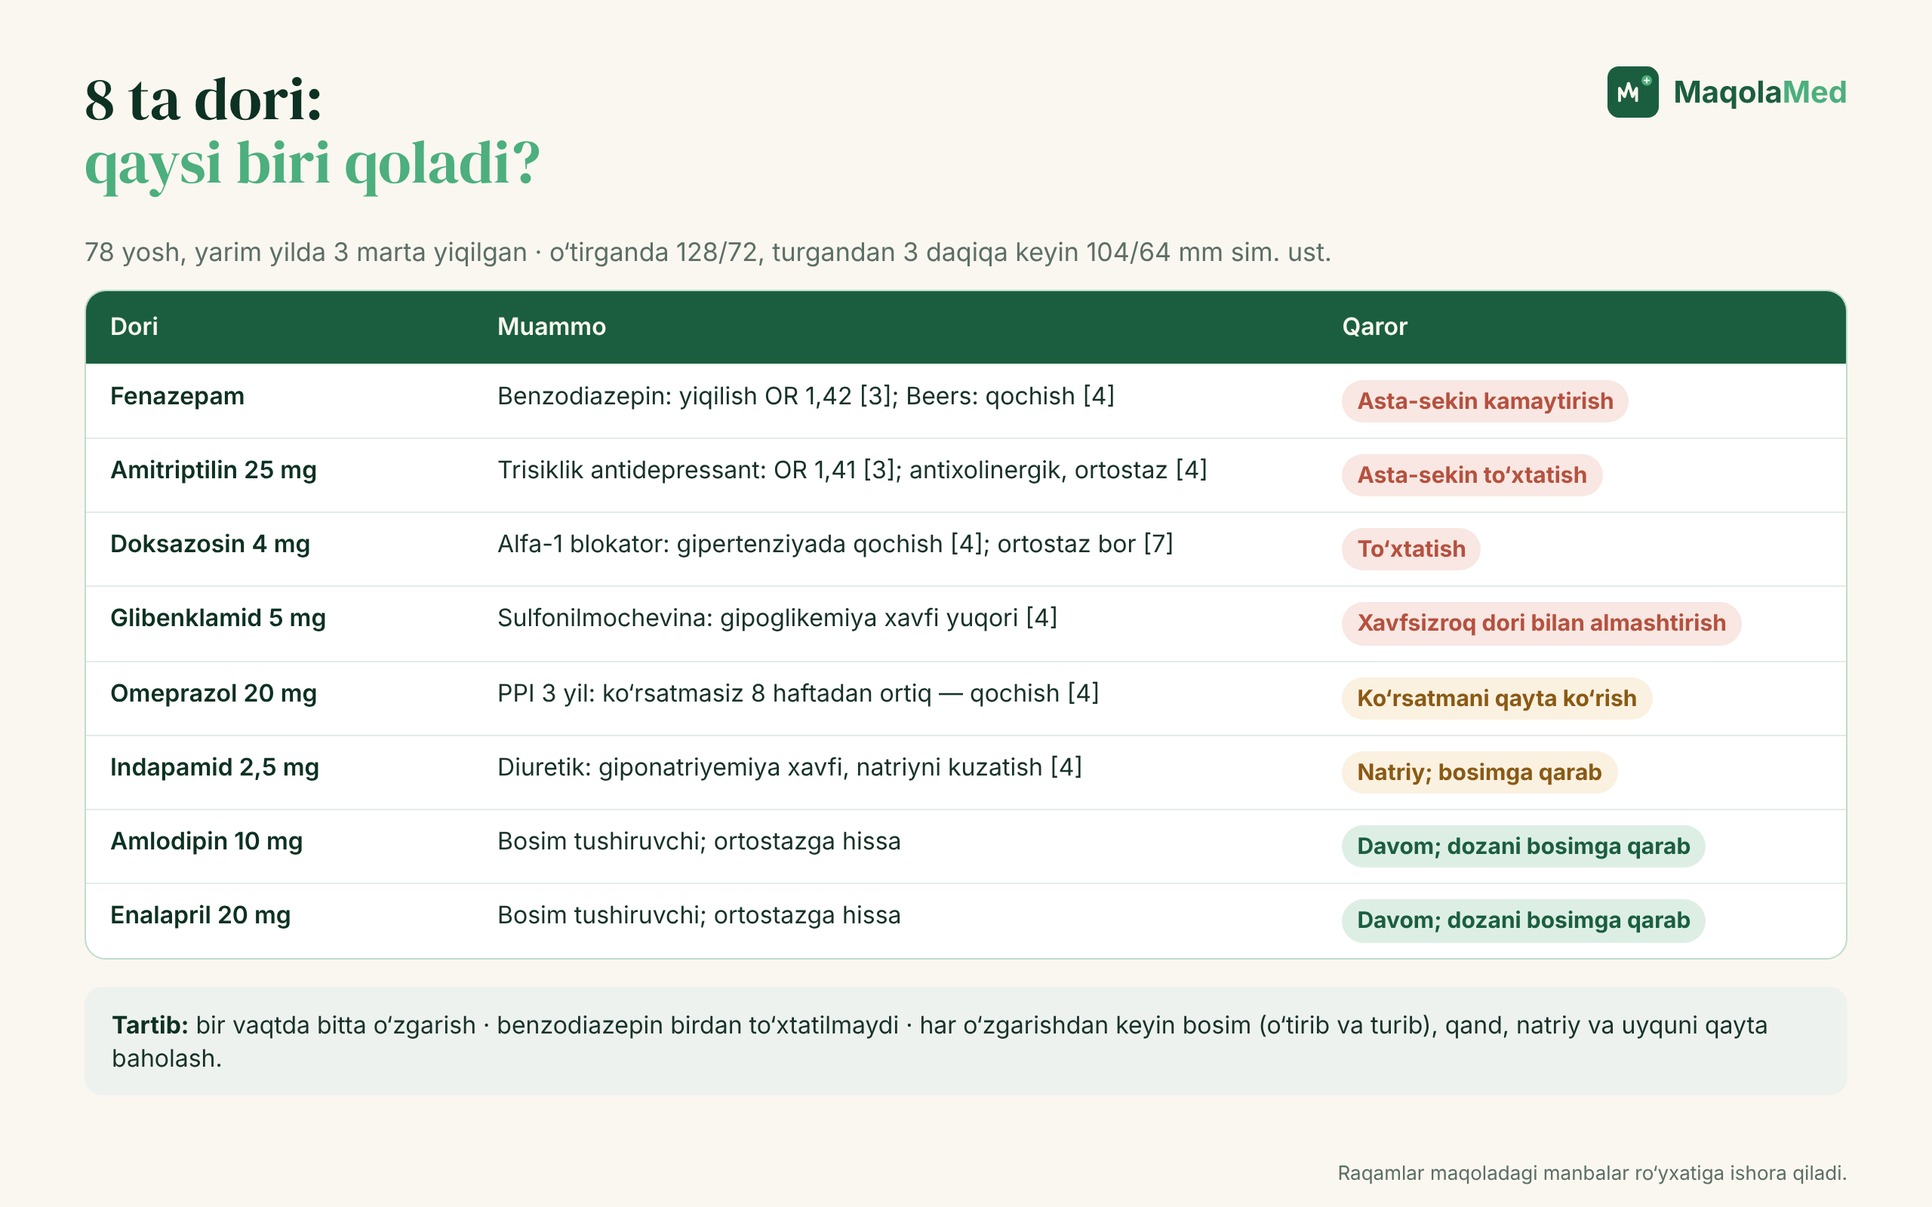
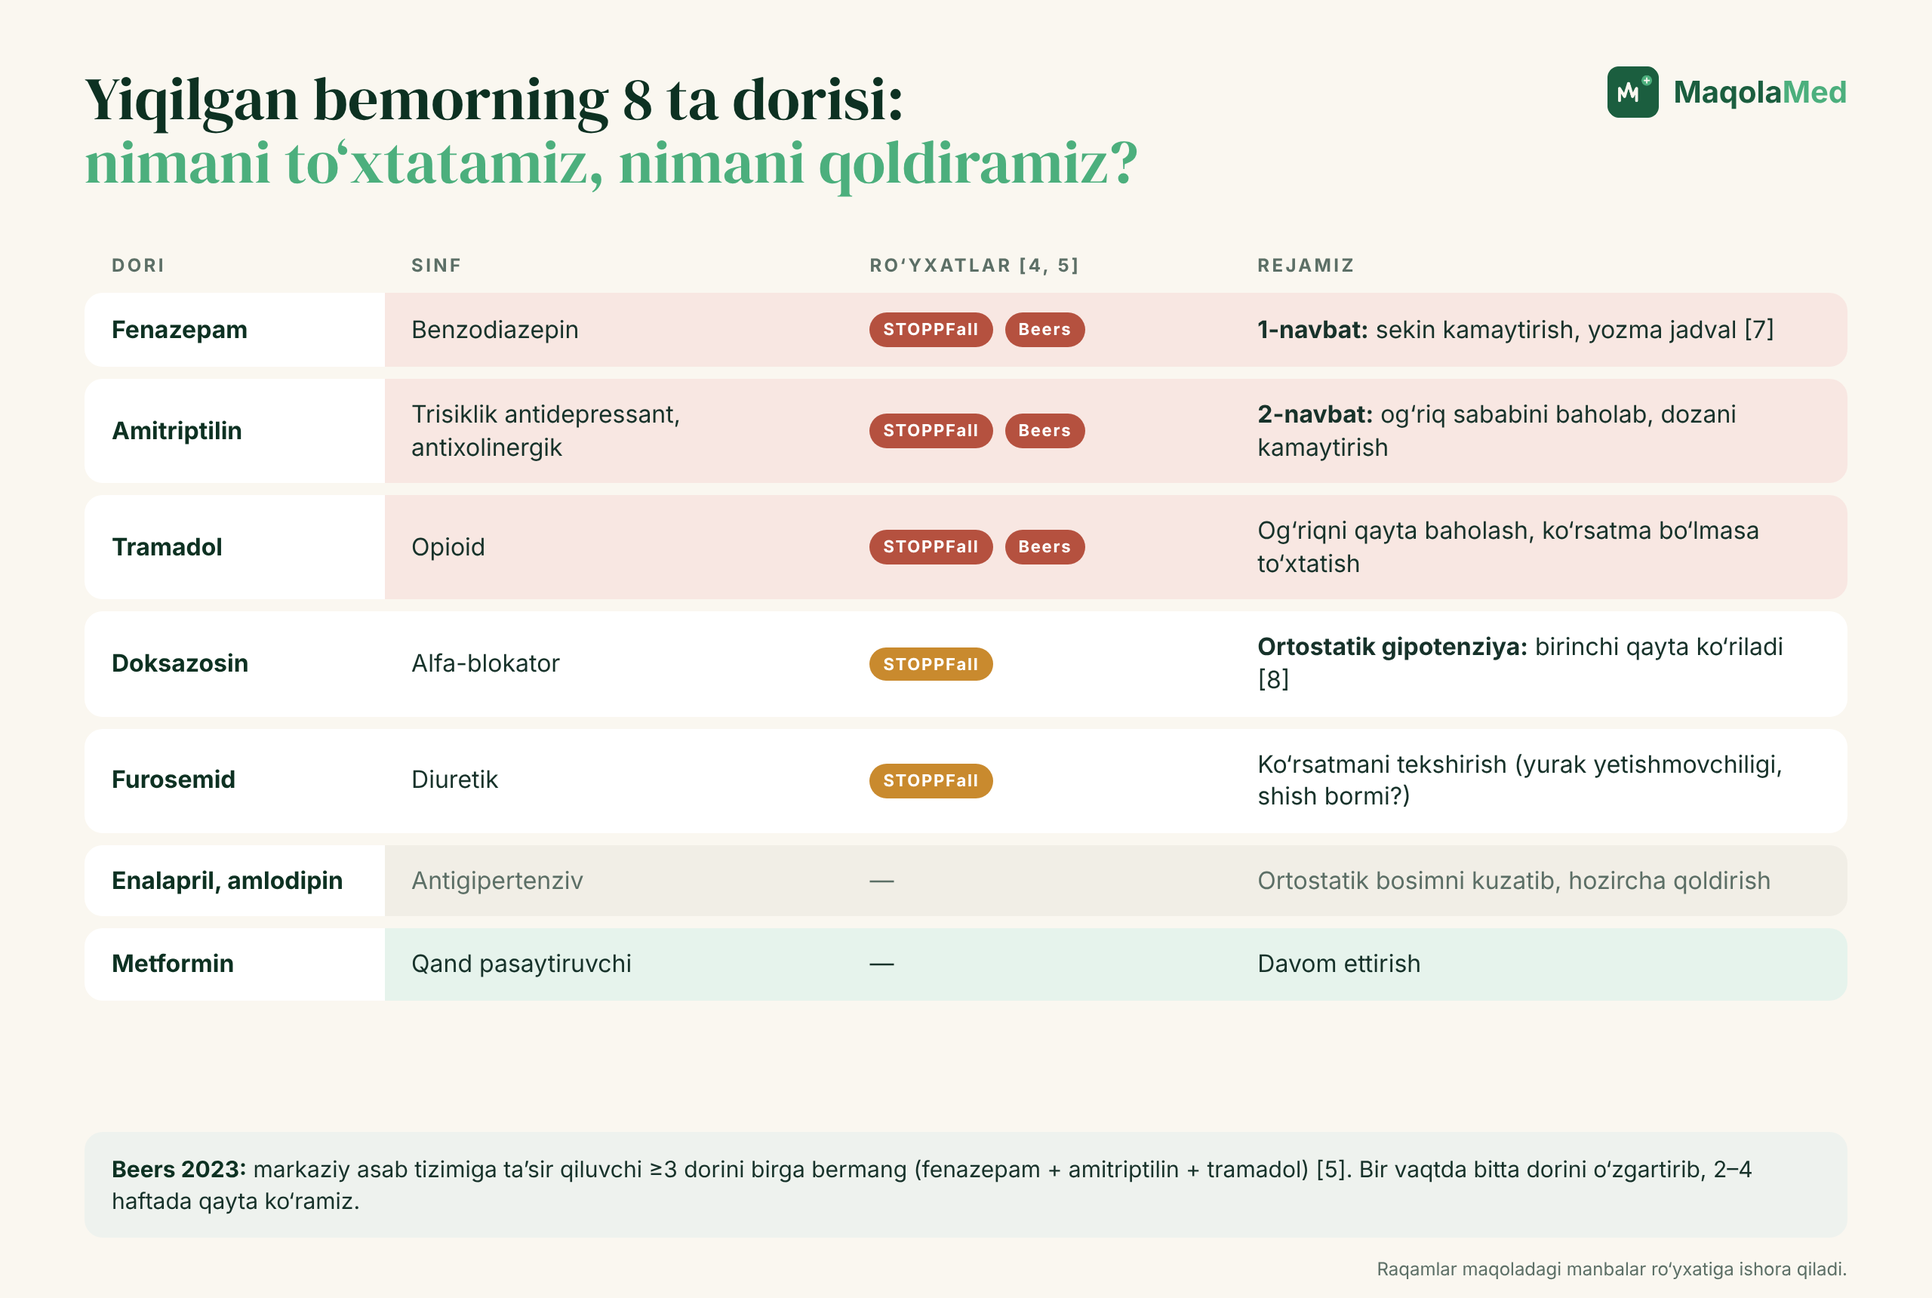
22-dekabr maqolasi qayta yozildi (v2, humanizer): yiqilgan keksa bemor va dorilar — muqovalar, 1 rasm

diff --git a/_manba/2026-12-22/muqova-instagram-4x5.html b/_manba/2026-12-22/muqova-instagram-4x5.html
@@ -1,0 +1,87 @@
+<!doctype html>
+<html lang="uz">
+<head><base href="file:///home/claude/maqolamed-rasmlar/_shablon/">
+<meta charset="utf-8">
+<style>
+@font-face{font-family:"DM Serif Display";src:url("fonts/dm-serif-display-latin-400-normal.woff2") format("woff2");}
+@font-face{font-family:"DM Serif Display";src:url("fonts/dm-serif-display-latin-ext-400-normal.woff2") format("woff2");unicode-range:U+0100-024F,U+1E00-1EFF;}
+:root{
+  --emerald:#1B5E3F; --deep:#0D3122; --cream:#FAF7F0; --mint:#7FC9A0; --green:#4CAF7D;
+}
+*{margin:0;padding:0;box-sizing:border-box}
+html,body{width:1280px;height:720px;overflow:hidden;background:var(--deep)}
+.cover{position:relative;width:1280px;height:720px;overflow:hidden;font-family:"Inter",sans-serif;color:var(--cream);
+  background:
+    radial-gradient(900px 600px at 78% 40%, rgba(76,175,125,.22), transparent 60%),
+    radial-gradient(700px 500px at 0% 100%, rgba(13,49,34,.9), transparent 70%),
+    linear-gradient(135deg,#123F2C 0%, #1B5E3F 55%, #164D34 100%);}
+.grid{position:absolute;inset:0;background-image:
+    linear-gradient(rgba(250,247,240,.035) 1px,transparent 1px),
+    linear-gradient(90deg,rgba(250,247,240,.035) 1px,transparent 1px);
+  background-size:40px 40px;}
+.ekg{position:absolute;left:0;top:300px;width:1280px;height:200px;opacity:.16}
+.left{position:absolute;left:64px;top:52px;width:690px}
+.brand{display:flex;align-items:center;gap:28px}
+.brand img{height:62px;display:block}
+.tag{display:flex;align-items:center;gap:14px;font-size:13px;letter-spacing:.32em;color:rgba(250,247,240,.72);font-weight:500}
+.tag i{width:4px;height:4px;border-radius:50%;background:var(--mint);display:inline-block}
+.tag .line{width:90px;height:1px;background:rgba(250,247,240,.35)}
+.kicker{margin-top:54px;display:inline-flex;align-items:center;gap:10px;font-size:15px;font-weight:600;letter-spacing:.14em;text-transform:uppercase;color:var(--mint)}
+.kicker span{display:inline-block;width:28px;height:2px;background:var(--mint)}
+h1{margin-top:16px;font-family:"DM Serif Display",serif;font-weight:400;font-size:78px;line-height:.98;letter-spacing:-.01em;color:var(--cream)}
+h1 em{font-style:normal;color:var(--mint)}
+.sub{margin-top:22px;font-size:21px;color:rgba(250,247,240,.82);font-weight:400}
+.points{position:absolute;left:64px;bottom:50px;display:flex;gap:0}
+.pt{width:172px;padding-right:18px;display:flex;flex-direction:column;align-items:flex-start;gap:12px}
+.pt + .pt{padding-left:22px;border-left:1px solid rgba(250,247,240,.18)}
+.ic{width:52px;height:52px;border-radius:50%;border:1.6px solid rgba(250,247,240,.75);display:grid;place-items:center}
+.ic svg{width:26px;height:26px;stroke:var(--cream);fill:none;stroke-width:1.7;stroke-linecap:round;stroke-linejoin:round}
+.pt p{font-size:15px;line-height:1.3;color:rgba(250,247,240,.92);font-weight:500}
+.card{position:absolute;right:56px;top:96px;width:400px;border-radius:22px;padding:28px 30px 26px;
+  background:linear-gradient(160deg,rgba(13,49,34,.82),rgba(13,49,34,.62));
+  border:1px solid rgba(127,201,160,.35);box-shadow:0 30px 60px rgba(0,0,0,.35)}
+.card .ch{display:flex;justify-content:space-between;align-items:center}
+.card .lbl{font-size:12px;letter-spacing:.24em;font-weight:600;color:var(--mint)}
+.card .pill{font-size:12px;font-weight:600;padding:5px 10px;border-radius:999px;background:rgba(127,201,160,.16);color:var(--mint)}
+.card h3{margin-top:14px;font-size:22px;font-weight:600}
+.card h3 small{display:block;margin-top:4px;font-size:14px;font-weight:400;color:rgba(250,247,240,.65)}
+.rows{margin-top:18px;border-top:1px solid rgba(250,247,240,.14)}
+.row{display:flex;justify-content:space-between;padding:9px 0;border-bottom:1px solid rgba(250,247,240,.10);font-size:16px}
+.row span:first-child{color:rgba(250,247,240,.68)}
+.row span:last-child{font-weight:600;font-variant-numeric:tabular-nums}
+.row .ok{color:var(--mint)}
+.quote{margin-top:18px;font-family:"DM Serif Display",serif;font-size:21px;line-height:1.25;color:var(--cream)}
+.ask{margin-top:16px;display:flex;align-items:center;justify-content:space-between;padding:13px 16px;border-radius:12px;background:var(--green);color:#0D3122;font-weight:700;font-size:17px}
+.ask svg{width:22px;height:22px;stroke:#0D3122;fill:none;stroke-width:2.2;stroke-linecap:round;stroke-linejoin:round}
+
+html,body{width:1080px;height:1350px}
+.cover{width:1080px;height:1350px}
+.ekg{top:525px;width:1080px}
+.left{left:72px;top:64px;width:940px}
+.brand img{height:72px}
+h1{font-size:96px;margin-top:18px}
+.kicker{margin-top:56px;font-size:17px}
+.sub{font-size:24px}
+.card{left:72px;right:72px;top:auto;bottom:250px;width:auto;padding:30px 34px}
+.rows{display:grid;grid-template-columns:1fr 1fr;column-gap:40px}
+.quote{font-size:24px}
+.points{left:72px;right:72px;bottom:60px}
+.pt{width:auto;flex:1}
+.pt p{font-size:17px}
+
+
+
+h1{font-size:90px}
+</style>
+</head>
+<body><div class="cover"><div class="grid"></div>
+<svg class="ekg" viewBox="0 0 1280 200" preserveAspectRatio="none"><polyline fill="none" stroke="#7FC9A0" stroke-width="3" stroke-linejoin="round" stroke-linecap="round" points="0,120 640,120 670,120 690,98 710,120 750,120 770,40 795,175 820,120 880,120 905,102 930,120 1280,120"/></svg>
+<div class="left"><div class="brand"><img src="logo_dark_bg.png" alt="MaqolaMed"></div>
+<div class="tag" style="margin-top:22px"><span>ILM</span><i></i><span>AMALIYOT</span><i></i><span>ODAM UCHUN</span><span class="line"></span></div>
+<div class="kicker"><span></span>Klinik holat · Geriatriya</div>
+<h1>Yiqilgan bemor<br>va 8 ta dori:<br><em>qaysini to‘xtatamiz?</em></h1>
+<div class="sub">Keksa bemorga yangi dori emas, dori ro‘yxatini qayta ko‘rish kerak.</div></div>
+<div class="points"><div class="pt"><div class="ic"><svg viewBox="0 0 24 24"><path d="M12 3l9.5 17h-19z"/><path d="M12 10v4"/><path d="M12 17v.5"/></svg></div><p>Bu yiqilish tasodifmi?</p></div><div class="pt"><div class="ic"><svg viewBox="0 0 24 24"><rect x="3" y="8.5" width="18" height="7" rx="3.5" transform="rotate(-40 12 12)"/><path d="M9.3 9.3l5.4 5.4"/></svg></div><p>Qaysi dorilar yiqitadi?</p></div><div class="pt"><div class="ic"><svg viewBox="0 0 24 24"><circle cx="12" cy="12" r="9"/><path d="M12 7v5l3 2"/></svg></div><p>Fenazepamni qanday to‘xtatamiz?</p></div><div class="pt"><div class="ic"><svg viewBox="0 0 24 24"><path d="M12 21s-7-4.5-9.5-9A5.5 5.5 0 0 1 12 6a5.5 5.5 0 0 1 9.5 6c-2.5 4.5-9.5 9-9.5 9z"/></svg></div><p>Bosim dorilari nima bo‘ladi?</p></div></div>
+<div class="card"><div class="ch"><span class="lbl">BEMOR KARTOCHKASI</span><span class="pill">2-yiqilish</span></div>
+<h3>Nafaqadagi o‘qituvchi, 81 yosh<small>Tunda yiqilgan · bilak jarohati</small></h3><div class="rows"><div class="row"><span>Dorilar soni</span><span class="">8 ta</span></div><div class="row"><span>Yotgan / turgan bosim</span><span class="">148/84 → 120/76</span></div><div class="row"><span>STOPPFall ro‘yxatida</span><span class="">5 ta dori</span></div><div class="row"><span>Markaziy ta’sirli dorilar</span><span class="">3 ta</span></div></div><div class="quote">«Dadamga yana qaysi dori kerak?»</div><div class="ask">Siz nima qilardingiz?<svg viewBox="0 0 24 24"><path d="M5 12h14"/><path d="M13 6l6 6-6 6"/></svg></div></div>
+</div></body></html>

diff --git a/_manba/2026-12-22/muqova-16x9.html b/_manba/2026-12-22/muqova-16x9.html
@@ -1,0 +1,70 @@
+<!doctype html>
+<html lang="uz">
+<head><base href="file:///home/claude/maqolamed-rasmlar/_shablon/">
+<meta charset="utf-8">
+<style>
+@font-face{font-family:"DM Serif Display";src:url("fonts/dm-serif-display-latin-400-normal.woff2") format("woff2");}
+@font-face{font-family:"DM Serif Display";src:url("fonts/dm-serif-display-latin-ext-400-normal.woff2") format("woff2");unicode-range:U+0100-024F,U+1E00-1EFF;}
+:root{
+  --emerald:#1B5E3F; --deep:#0D3122; --cream:#FAF7F0; --mint:#7FC9A0; --green:#4CAF7D;
+}
+*{margin:0;padding:0;box-sizing:border-box}
+html,body{width:1280px;height:720px;overflow:hidden;background:var(--deep)}
+.cover{position:relative;width:1280px;height:720px;overflow:hidden;font-family:"Inter",sans-serif;color:var(--cream);
+  background:
+    radial-gradient(900px 600px at 78% 40%, rgba(76,175,125,.22), transparent 60%),
+    radial-gradient(700px 500px at 0% 100%, rgba(13,49,34,.9), transparent 70%),
+    linear-gradient(135deg,#123F2C 0%, #1B5E3F 55%, #164D34 100%);}
+.grid{position:absolute;inset:0;background-image:
+    linear-gradient(rgba(250,247,240,.035) 1px,transparent 1px),
+    linear-gradient(90deg,rgba(250,247,240,.035) 1px,transparent 1px);
+  background-size:40px 40px;}
+.ekg{position:absolute;left:0;top:300px;width:1280px;height:200px;opacity:.16}
+.left{position:absolute;left:64px;top:52px;width:690px}
+.brand{display:flex;align-items:center;gap:28px}
+.brand img{height:62px;display:block}
+.tag{display:flex;align-items:center;gap:14px;font-size:13px;letter-spacing:.32em;color:rgba(250,247,240,.72);font-weight:500}
+.tag i{width:4px;height:4px;border-radius:50%;background:var(--mint);display:inline-block}
+.tag .line{width:90px;height:1px;background:rgba(250,247,240,.35)}
+.kicker{margin-top:54px;display:inline-flex;align-items:center;gap:10px;font-size:15px;font-weight:600;letter-spacing:.14em;text-transform:uppercase;color:var(--mint)}
+.kicker span{display:inline-block;width:28px;height:2px;background:var(--mint)}
+h1{margin-top:16px;font-family:"DM Serif Display",serif;font-weight:400;font-size:78px;line-height:.98;letter-spacing:-.01em;color:var(--cream)}
+h1 em{font-style:normal;color:var(--mint)}
+.sub{margin-top:22px;font-size:21px;color:rgba(250,247,240,.82);font-weight:400}
+.points{position:absolute;left:64px;bottom:50px;display:flex;gap:0}
+.pt{width:172px;padding-right:18px;display:flex;flex-direction:column;align-items:flex-start;gap:12px}
+.pt + .pt{padding-left:22px;border-left:1px solid rgba(250,247,240,.18)}
+.ic{width:52px;height:52px;border-radius:50%;border:1.6px solid rgba(250,247,240,.75);display:grid;place-items:center}
+.ic svg{width:26px;height:26px;stroke:var(--cream);fill:none;stroke-width:1.7;stroke-linecap:round;stroke-linejoin:round}
+.pt p{font-size:15px;line-height:1.3;color:rgba(250,247,240,.92);font-weight:500}
+.card{position:absolute;right:56px;top:96px;width:400px;border-radius:22px;padding:28px 30px 26px;
+  background:linear-gradient(160deg,rgba(13,49,34,.82),rgba(13,49,34,.62));
+  border:1px solid rgba(127,201,160,.35);box-shadow:0 30px 60px rgba(0,0,0,.35)}
+.card .ch{display:flex;justify-content:space-between;align-items:center}
+.card .lbl{font-size:12px;letter-spacing:.24em;font-weight:600;color:var(--mint)}
+.card .pill{font-size:12px;font-weight:600;padding:5px 10px;border-radius:999px;background:rgba(127,201,160,.16);color:var(--mint)}
+.card h3{margin-top:14px;font-size:22px;font-weight:600}
+.card h3 small{display:block;margin-top:4px;font-size:14px;font-weight:400;color:rgba(250,247,240,.65)}
+.rows{margin-top:18px;border-top:1px solid rgba(250,247,240,.14)}
+.row{display:flex;justify-content:space-between;padding:9px 0;border-bottom:1px solid rgba(250,247,240,.10);font-size:16px}
+.row span:first-child{color:rgba(250,247,240,.68)}
+.row span:last-child{font-weight:600;font-variant-numeric:tabular-nums}
+.row .ok{color:var(--mint)}
+.quote{margin-top:18px;font-family:"DM Serif Display",serif;font-size:21px;line-height:1.25;color:var(--cream)}
+.ask{margin-top:16px;display:flex;align-items:center;justify-content:space-between;padding:13px 16px;border-radius:12px;background:var(--green);color:#0D3122;font-weight:700;font-size:17px}
+.ask svg{width:22px;height:22px;stroke:#0D3122;fill:none;stroke-width:2.2;stroke-linecap:round;stroke-linejoin:round}
+
+h1{font-size:66px}
+</style>
+</head>
+<body><div class="cover"><div class="grid"></div>
+<svg class="ekg" viewBox="0 0 1280 200" preserveAspectRatio="none"><polyline fill="none" stroke="#7FC9A0" stroke-width="3" stroke-linejoin="round" stroke-linecap="round" points="0,120 640,120 670,120 690,98 710,120 750,120 770,40 795,175 820,120 880,120 905,102 930,120 1280,120"/></svg>
+<div class="left"><div class="brand"><img src="logo_dark_bg.png" alt="MaqolaMed"></div>
+<div class="tag" style="margin-top:22px"><span>ILM</span><i></i><span>AMALIYOT</span><i></i><span>ODAM UCHUN</span><span class="line"></span></div>
+<div class="kicker"><span></span>Klinik holat · Geriatriya</div>
+<h1>Yiqilgan bemor<br>va 8 ta dori:<br><em>qaysini to‘xtatamiz?</em></h1>
+<div class="sub">Keksa bemorga yangi dori emas, dori ro‘yxatini qayta ko‘rish kerak.</div></div>
+<div class="points"><div class="pt"><div class="ic"><svg viewBox="0 0 24 24"><path d="M12 3l9.5 17h-19z"/><path d="M12 10v4"/><path d="M12 17v.5"/></svg></div><p>Bu yiqilish tasodifmi?</p></div><div class="pt"><div class="ic"><svg viewBox="0 0 24 24"><rect x="3" y="8.5" width="18" height="7" rx="3.5" transform="rotate(-40 12 12)"/><path d="M9.3 9.3l5.4 5.4"/></svg></div><p>Qaysi dorilar yiqitadi?</p></div><div class="pt"><div class="ic"><svg viewBox="0 0 24 24"><circle cx="12" cy="12" r="9"/><path d="M12 7v5l3 2"/></svg></div><p>Fenazepamni qanday to‘xtatamiz?</p></div><div class="pt"><div class="ic"><svg viewBox="0 0 24 24"><path d="M12 21s-7-4.5-9.5-9A5.5 5.5 0 0 1 12 6a5.5 5.5 0 0 1 9.5 6c-2.5 4.5-9.5 9-9.5 9z"/></svg></div><p>Bosim dorilari nima bo‘ladi?</p></div></div>
+<div class="card"><div class="ch"><span class="lbl">BEMOR KARTOCHKASI</span><span class="pill">2-yiqilish</span></div>
+<h3>Nafaqadagi o‘qituvchi, 81 yosh<small>Tunda yiqilgan · bilak jarohati</small></h3><div class="rows"><div class="row"><span>Dorilar soni</span><span class="">8 ta</span></div><div class="row"><span>Yotgan / turgan bosim</span><span class="">148/84 → 120/76</span></div><div class="row"><span>STOPPFall ro‘yxatida</span><span class="">5 ta dori</span></div><div class="row"><span>Markaziy ta’sirli dorilar</span><span class="">3 ta</span></div></div><div class="quote">«Dadamga yana qaysi dori kerak?»</div><div class="ask">Siz nima qilardingiz?<svg viewBox="0 0 24 24"><path d="M5 12h14"/><path d="M13 6l6 6-6 6"/></svg></div></div>
+</div></body></html>

diff --git a/_manba/2026-12-22/1-rasm.html b/_manba/2026-12-22/1-rasm.html
@@ -1,0 +1,46 @@
+<!doctype html><html lang="uz"><head><meta charset="utf-8"><base href="file:///home/claude/maqolamed-rasmlar/_shablon/">
+<style>
+@font-face{font-family:"DM Serif Display";src:url("fonts/dm-serif-display-latin-400-normal.woff2") format("woff2");}
+@font-face{font-family:"DM Serif Display";src:url("fonts/dm-serif-display-latin-ext-400-normal.woff2") format("woff2");unicode-range:U+0100-024F,U+1E00-1EFF;}
+:root{--emerald:#1B5E3F;--deep:#0D3122;--cream:#FAF7F0;--mint:#7FC9A0;--green:#4CAF7D;--ink:#17322A;--muted:#5C6F66;--amber:#C98A2E;--amberbg:#FBF1E1;--red:#B5513F;--redbg:#F8E7E2;--tint:#E6F3EC}
+*{margin:0;padding:0;box-sizing:border-box}
+html,body{width:1280px;height:var(--H,900px);background:var(--cream);overflow:hidden}
+.fig{position:relative;width:1280px;height:var(--H,900px);padding:44px 56px;font-family:"Inter",sans-serif;color:var(--ink)}
+.top{display:flex;justify-content:space-between;align-items:flex-start;margin-bottom:28px}
+h1{font-family:"DM Serif Display",serif;font-weight:400;font-size:40px;line-height:1.05;color:var(--deep)}
+h1 em{font-style:normal;color:var(--green)}
+.brand{display:flex;align-items:center;gap:10px;font-weight:700;font-size:20px;color:var(--emerald)}
+.brand img{height:34px}.brand b{color:var(--green);font-weight:700}
+table{width:100%;border-collapse:separate;border-spacing:0 8px;font-size:16px;line-height:1.35}
+th{text-align:left;font-size:12px;letter-spacing:.14em;text-transform:uppercase;color:var(--muted);padding:0 18px 2px;font-weight:700}
+td{background:#fff;padding:13px 18px;vertical-align:middle}
+td:first-child{border-radius:12px 0 0 12px;font-weight:700;color:var(--deep)}
+td:last-child{border-radius:0 12px 12px 0}
+td.new{background:var(--tint)} td.same{background:#F1EEE6;color:var(--muted)}
+td.warn{background:var(--redbg)}
+.badge{display:inline-block;font-size:11px;font-weight:700;letter-spacing:.08em;padding:4px 9px;border-radius:999px;margin-right:8px;vertical-align:1px}
+.b-new{background:var(--emerald);color:var(--cream)} .b-same{background:#E2DED3;color:var(--muted)} .b-red{background:var(--red);color:#fff} .b-amb{background:var(--amber);color:#fff}
+.muted{color:var(--muted)}
+.node{border-radius:14px;padding:14px 18px;font-size:16px;line-height:1.38}
+.node b{display:block;font-size:17px;margin-bottom:3px}
+.n-dark{background:var(--emerald);color:var(--cream)} .n-deep{background:var(--deep);color:var(--cream)}
+.n-white{background:#fff;border:1.5px solid #BFDCCB} .n-amb{background:#fff;border:1.5px solid #EBD3A9} .n-red{background:var(--redbg);border:1.5px solid #E8C3BA}
+.tagc{display:inline-block;font-size:12px;font-weight:700;letter-spacing:.12em;text-transform:uppercase;padding:6px 12px;border-radius:999px}
+.t-g{background:#DDEFE5;color:var(--emerald)} .t-a{background:var(--amberbg);color:#8A5A14} .t-r{background:var(--redbg);color:var(--red)}
+.note{position:absolute;left:56px;right:56px;bottom:40px;padding:14px 18px;border-radius:12px;background:#EEF2EE;font-size:15px;line-height:1.4}
+.note b{color:var(--deep)}
+.src{position:absolute;right:56px;bottom:12px;font-size:12px;color:var(--muted)}
+.arrow{stroke:var(--emerald);stroke-width:2.2;fill:none}
+</style></head><body><style>:root{--H:860px} td{font-size:16px} th{padding-top:4px}</style>
+<div class="fig"><div class="top"><h1>Yiqilgan bemorning 8 ta dorisi:<br><em>nimani to‘xtatamiz, nimani qoldiramiz?</em></h1><div class="brand"><img src="icon.png" alt=""><span>Maqola<b>Med</b></span></div></div>
+<table><tr><th style="width:17%">Dori</th><th style="width:26%">Sinf</th><th style="width:22%">Ro‘yxatlar [4, 5]</th><th>Rejamiz</th></tr>
+<tr><td>Fenazepam</td><td class="warn">Benzodiazepin</td><td class="warn"><span class="badge b-red">STOPPFall</span><span class="badge b-red">Beers</span></td><td class="warn"><b>1-navbat:</b> sekin kamaytirish, yozma jadval [7]</td></tr>
+<tr><td>Amitriptilin</td><td class="warn">Trisiklik antidepressant, antixolinergik</td><td class="warn"><span class="badge b-red">STOPPFall</span><span class="badge b-red">Beers</span></td><td class="warn"><b>2-navbat:</b> og‘riq sababini baholab, dozani kamaytirish</td></tr>
+<tr><td>Tramadol</td><td class="warn">Opioid</td><td class="warn"><span class="badge b-red">STOPPFall</span><span class="badge b-red">Beers</span></td><td class="warn">Og‘riqni qayta baholash, ko‘rsatma bo‘lmasa to‘xtatish</td></tr>
+<tr><td>Doksazosin</td><td>Alfa-blokator</td><td><span class="badge b-amb">STOPPFall</span></td><td><b>Ortostatik gipotenziya:</b> birinchi qayta ko‘riladi [8]</td></tr>
+<tr><td>Furosemid</td><td>Diuretik</td><td><span class="badge b-amb">STOPPFall</span></td><td>Ko‘rsatmani tekshirish (yurak yetishmovchiligi, shish bormi?)</td></tr>
+<tr><td>Enalapril, amlodipin</td><td class="same">Antigipertenziv</td><td class="same">—</td><td class="same">Ortostatik bosimni kuzatib, hozircha qoldirish</td></tr>
+<tr><td>Metformin</td><td class="new">Qand pasaytiruvchi</td><td class="new">—</td><td class="new">Davom ettirish</td></tr>
+</table>
+<div class="note"><b>Beers 2023:</b> markaziy asab tizimiga ta’sir qiluvchi ≥3 dorini birga bermang (fenazepam + amitriptilin + tramadol) [5]. Bir vaqtda bitta dorini o‘zgartirib, 2–4 haftada qayta ko‘ramiz.</div>
+<div class="src">Raqamlar maqoladagi manbalar ro‘yxatiga ishora qiladi.</div></div></body></html>
